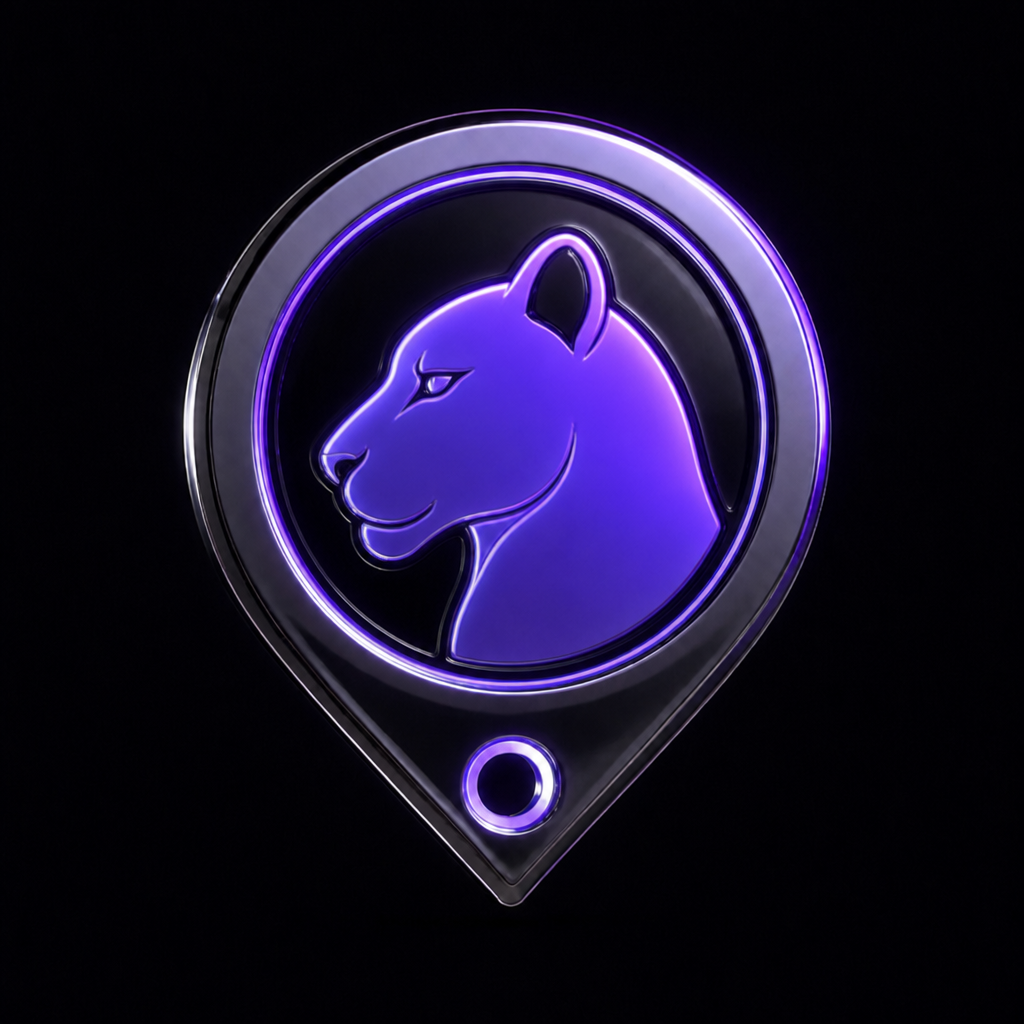
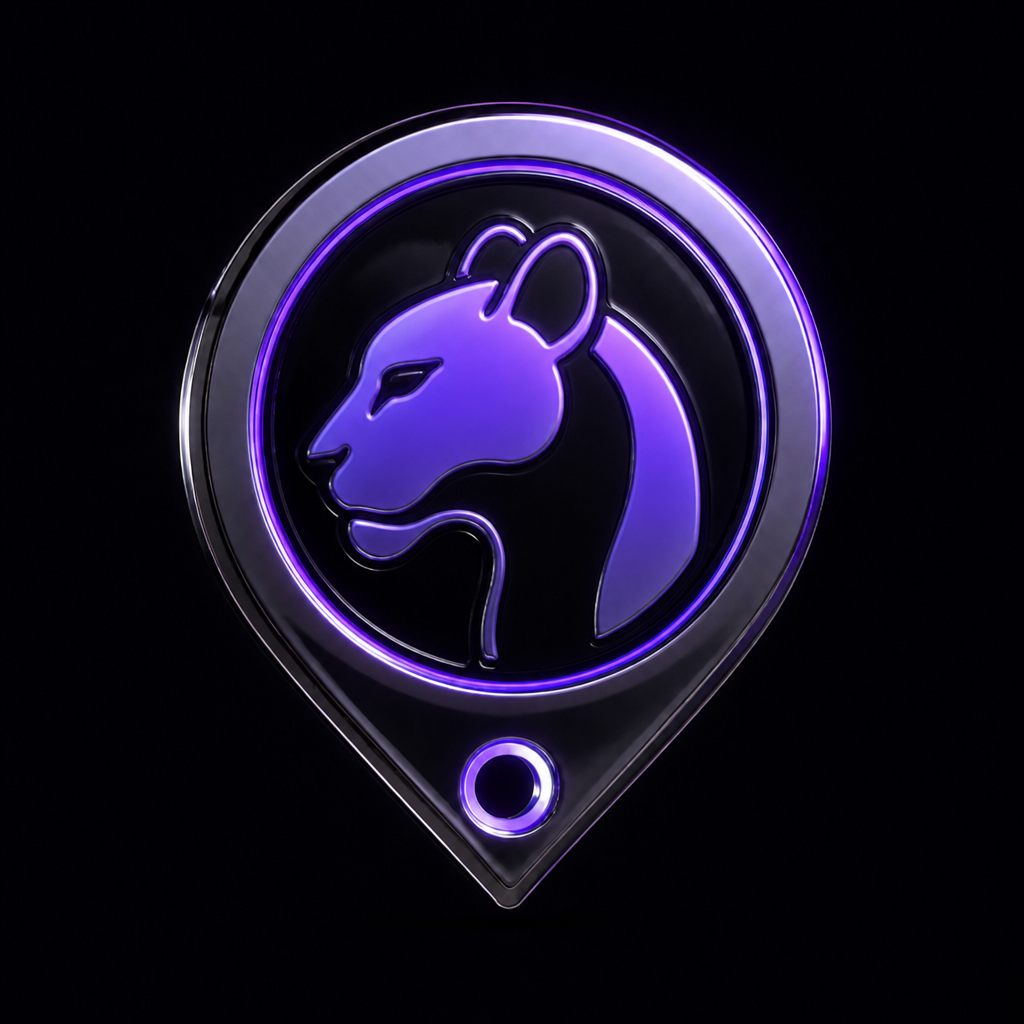
fix(trilha): marco 50k no lugar de 10k e pins fiéis à referência
Primeiro prêmio passa a R$ 50 mil com pin 50k; kit 100k só pin 100k.
Regenera fotos dos pins e kits conforme arte Trilha do Predador.

Changed region(s): [[0.1562, 0.0938, 0.8125, 0.9062], [0.625, 0.7188, 0.6562, 0.75], [0.5938, 0.75, 0.625, 0.7812]]

diff --git a/lib/trilha-prizes.js b/lib/trilha-prizes.js
@@ -6,12 +6,12 @@ export const TRILHA_MOCK_REVENUE = {
 
 export const TRILHA_PRIZES = [
   {
-    id: '10k',
-    milestone: 10_000,
-    label: 'R$ 10 mil',
-    title: 'Carta + Pulseira + Pin 10k',
-    image: '/trilha/trilha-10k.png',
-    items: ['Carta comemorativa', 'Pulseira Leona', 'Pin 10k'],
+    id: '50k',
+    milestone: 50_000,
+    label: 'R$ 50 mil',
+    title: 'Carta + Pulseira + Pin 50k',
+    image: '/trilha/trilha-50k.png',
+    items: ['Carta comemorativa', 'Pulseira Leona', 'Pin 50k'],
     priceCents: 2990,
     shippingLabel: 'Frete grátis',
     freeShipping: true
